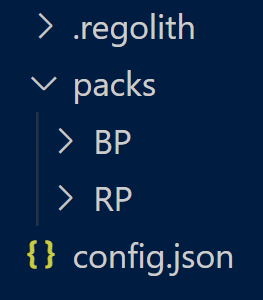
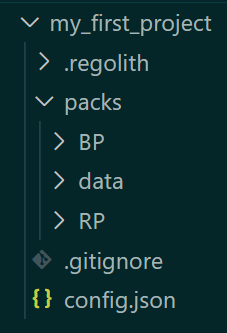
docs: Update beginners content + images

diff --git a/docs/_pages/docs/getting_started/getting-started.md b/docs/_pages/docs/getting_started/getting-started.md
@@ -13,6 +13,11 @@ You can test for installation by running `regolith` inside of a terminal. This g
 
 If you run into issues installing, you can check our [troubleshooting guide](/regolith/docs/troubleshooting) for tips.
 
+{: .notice--warning}
+**Warning:** Regolith is a command line application. It assumes some familiarity with how to navigate and use the command line. You can get a [refresher](https://tutorial.djangogirls.org/en/intro_to_command_line/) here.
+
+
+
 ## Creating a new Project
 
 To create a new project, navigate to a blank folder, and run `regolith init`. This will create a few files:
@@ -20,7 +25,12 @@ To create a new project, navigate to a blank folder, and run `regolith init`. Th
 
 ![](/regolith/assets/images/introduction/project_folder.png)
 
-You may now create your addon inside of the RP and BP folders, or better yet, import them from an addon you are currently working on.
+In short:
+ - `.regolith` is a special folder that regolith uses to store data. You don't need to look here.
+ - `packs/BP` stores your behavior pack.
+ - `packs/RP` stores your resource pack.
+ - `packs/data` is a special folder that filters can use to store data.
+ - `config.json` is the configuration file for Regolith.
 
 ## config.json
 
@@ -28,9 +38,8 @@ Next, open up `config.json`. We will be configuring a few fields here, for your 
 
 ```json
 {
-  "name": "Project Name", // Put your project name here
-  "author": "Your name", // Put your name here
-
+  "name": "Project name", // Enter your pack name here. (Example: spooky_gravestones)
+  "author": "Your name",  // Enter your author name here. (example: SirLich)
   "packs": {
     "behaviorPack": "./packs/BP",
     "resourcePack": "./packs/RP"
@@ -38,58 +47,81 @@ Next, open up `config.json`. We will be configuring a few fields here, for your 
   "regolith": {
     "profiles": {
       "dev": {
-        "filters": [
-          
-        ],
+        "filters": [],
         "export": {
-          "clean": false,
-          "target": "development"
+          "target": "development",
+          "readOnly": false
         }
       }
-    }
+    },
+    "filterDefinitions": {},
+    "dataPath": "./packs/data"
   }
 }
 ```
 
 Later on you can play with the additional configuration options, but for now, just set a project name, and author name.
 
-We suggest using a name like 'dragons' or 'cars' for the project name, as opposed to 'My Dragon Adventure Map', since the project name will be used as the folder name for the final export.
+{: .notice}
+We suggest using a name like `dragons` or `cars` for the project name, as opposed to `My Dragon Adventure Map`, since the project name will be used as the folder name for the final export.
+
+## Creating your Addon
+
+At this point, you will want to add some files into your regolith project. If you have an existing project, you can copy/paste the files into the `RP` (resource pack) and `BP` (behavior pack) folders. 
+
+If you don't have an addon prepared, you may also create a fresh one directly in your project folder, following the normal rules. Add a `manifest.json`, a `pack_icon.png`, and any other files you want. The files should go directly into the `RP` and `BP` folders, like this:
+
+![](/regolith/assets/images/introduction/project_folder2.png)
+
 
 ## Running Regolith
 
-To run regolith, open up a terminal and type `regolith run`. This will run the default profile (dev) from `config.json`. When you run this command, Regolith will copy/paste your addon into the `development` folders inside of `com.mojang`. If you navigate there, you should be able to see your pack folders, with a name like `project_name_bp`. 
+To run regolith, open up a terminal and type `regolith run`. This will run the default profile (dev) from `config.json`. When you run this command, Regolith will copy/paste your addon into the `development` folders inside of `com.mojang`. If you navigate there, you should be able to see your pack folders, with a name like `project_name_bp`, and `project_name_rp`.
 
-Every time you want to update your addon, re-run this command. 
+{: .notice--warning}
+Every time you want to update your addon, re-run this command.
 
-Later on, you can experiment with creating multiple profiles -for example, one for `dev` and one for `packaging`.
+Later on, you can experiment with creating multiple [profiles](/regolith/docs/documentation/profiles) -for example, one for `dev` and one for `packaging`.
 
 ## Adding your first Filter
 
-Regolith contains a very powerful filter system, that allows you write filters in many languages, as well as from the internet. For now, we will simply use the `standard library`, which is a set of approved filters that we maintain. 
-
-To add a new filter to your profile, you must add items into the `"filters": [],` list of your profile.
+Regolith contains a very powerful filter system, that allows you write filters in many languages, as well as running existing filters from the internet. For now, we will simply use the [standard library](/regolith/docs/content/standard-filters), which is a set of approved filters that we maintain. 
 
 As an example, we will use the `texture_list` filter, which automatically creates the `texture_list.json` file for you. To learn more about this file, and why automating it is helpful, read [here](https://wiki.bedrock.dev/visuals/textures-list.html).
 
+### Installing
+
+You can install this filter by running `regolith install texture_list`, which will make the filter available for use. 
+
+The last step is selecting where/when the filter will run. In our case, we want to run the filter every time we export using the default `dev` profile.
+
+You should adjust the dev profile in `config.json` to look like this:
+
 ```json
-"filters": [
-  {
-    "filter": "texture_list"
-  }
-]
+"dev": {
+  "export": {
+    "readOnly": false,
+    "target": "development"
+  },
+  "filters": [
+    {
+      "filter": "texture_list",
+    }
+  ]
+}
 ```
 
-`Warning:` If your resource pack already contains `texture_list.json`, you should delete it. You don't need to manually worry about it anymore -Regolith will handle it!
+### Running
 
-:`Warning:` If your project doesn't have any textures, than `texture_list.json` will simply create a blank file `[]`. Consider adding some textures to see the filter at work!
-
-Run `regolith run`. You will crash, since the dependencies for `texture_list` were not installed yet. This is expected!
-
-Run `regolith install`. This may take some time, but you only need to run it when you add new filters.
-
-After installation is finished, you can run `regolith run` again.
+Now, you can re-run `regolith run`.
 
 Check `com.mojang`, and open the new `texture_list.json` file in `RP/textures/texture_list.json`. Every time you run regolith, this file will be re-created, based on your current textures. No need to manually edit it ever again!
+
+{: .notice--warning}
+`Warning:` If your resource pack already contains `texture_list.json`, you should delete it. You don't need to manually worry about it anymore -Regolith will handle it!
+
+{: .notice--warning}
+`Warning:` If your project doesn't have any textures, than `texture_list.json` will simply create a blank file `[]`. Consider adding some textures to see the filter at work!
 
 ## Whats Next
 

diff --git a/docs/_pages/docs/getting_started/introduction.md b/docs/_pages/docs/getting_started/introduction.md
@@ -22,7 +22,7 @@ Here is what a newly initialized Regolith project looks like:
 
 In the simplest case, Regolith can be used to move your packs from the project folder, into your target location (usually the development folders in `com.mojang`). Each time you run regolith, the packs will be moved over, and updated.
 
-However, Regoliths real value preposition is the ability to run *arbitrary code during this copy*. 
+However, Regoliths real value preposition is the ability to run *arbitrary code during this copy*.
 
 We refer to these scripts and programs as `filters`. Here is the flow:
 - `RP`, `BP` and `data` folder are copied into a `temp` folder
@@ -32,25 +32,36 @@ We refer to these scripts and programs as `filters`. Here is the flow:
 
 This compilation flow allows you to make programmatic changes to your compiled addon, without effecting your source files.  
 
-Since the data folder is saved back to our project, we can store persistent data here. 
+Since the data folder is saved back to your project, you can store persistent data there. 
 
 ## Filters
 
-A filter is any program or script that takes the files inside of your RP and BP and *transforms* them in some way. Many of these filters have already been written, and are included as part of the *standard library*. 
+A filter is any program or script that takes the files inside of your RP and BP and *transforms* them in some way. Many of these filters have already been written, and are included as part of the [standard library](regolith/docs/standard-filters). 
 
-For example, one of our standard filters is called `psd_convert`, which *filters* photoshop files in your addon, and turns them into `.png` files.
+For example, one of our standard filters is called `texture_convert`, which *filters* image formats for photo editing programs, and converts them into `.png` files.
 
-With this filter turned on, you can place `.psd` files directly into `RP/textures/*` folder! By the time your files reach `com.mojang`, the photoshop files will be replaced by a normal images -Minecraft won't know the difference!
+With this filter turned on, you can place Photoshop, Krita, or Gimp files directly into `RP/textures/*` folder! By the time your files reach `com.mojang`, the `.psd` files will be replaced by a normal `.png` -Minecraft won't know the difference!
 
-You can write filters in Python, Javescript, Java, or any other language, using our shell integration, or select from the list of pre-written standard and community filters.
+### Creating your own Filters
 
-## Regolith Use Cases
+You can write filters in Python, Javescript, Java, or any other language, using our shell integration. You can learn more about [creating custom filters here](/regolith/docs/custom-filters).
+
+## Why Regolith?
 
 ### Extending the Addon Syntax
 
-Regolith allows you to create and extend the addon-syntax arbitrarily. As long as you can write a filter to interpret the new syntax, and compile it into valid addon-syntax, then anything goes! 
+Regolith allows you to create and extend addon-syntax. As long as you can write a filter to interpret the new syntax, and compile it into valid addon-syntax, then anything goes! 
 
-For example, we allow the creation of `.molang` files -a file format that doesn't exist in Bedrock! Regolith is responsible for converting these files into a format Minecraft understands. 
+For example, the [subfunctions](https://github.com/Nusiq/regolith-filters/tree/master/subfunctions) community filter allows you to define functions within functions, without creating an additional file:
+
+```s
+# Some code
+function <aaa>:
+    # The code of the subfunction
+    execute @a ~ ~ ~ function <bbb>:
+        # The code of the nested subfunction
+# Some other code
+```
 
 With Regolith, you are empowered to write addons with an extended syntax -and Bedrock won't even know the difference!
 
@@ -60,18 +71,19 @@ Imagine you have a script that loops over every entity, and creates some languag
 
 Lets say your entity `regolith:big_zombie` becomes named `Big Zombie`.
 
-If we run this script, and copy the files into our `en_US.lang`, we've saved ourself a lot of time, but we've also introduced a problem: We've *destructively edited our addon*. What this means, is we've mixed up our tool-generated content, with out hand-written content. 
+If you run this script, and copy the files into your `en_US.lang`, you've saved yourself a lot of time, but you've also introduced a problem: You've *destructively edited your addon*. What this means, is that you have mixed up your tool-generated content, with your hand-written content. 
 
-Imagine we add more entities, and run our script again: Now we are in the painful position of "merging" the new, tool generated content, with our addons `en_US.lang`, which contains the old entity names alongside custom language codes. 
+Imagine you add more entities, and run your script again: Now you are in the painful position of "merging" the new tool generated content, with your addons `en_US.lang` file, which you may have edited in the interim.
 
 This is called *destructive editing*, and Regolith fixes it!
 
-A comparable Regolith filter would only edit your `en_US.lang` during compilation, and it would do it automatically, everysingle time. 
+A comparable Regolith filter would not suffer from this problem, because you never directly edit tool generated content. Your Regolith project folder contains only human written content, and your `com.mojang` folder contains only tool-generated content.
 
-This means as you add new entities, the names will be handled for you, without you ever seeing the names in `en_US.lang`, or needing to re-run the script. 
+This means as you add new entities, the names will be handled for you, without you ever seeing the names in `en_US.lang`, or needing to re-run the script!
 
-In other words, Regolith layers compiled content on top of your hand written content, leaving you free to create your content, without working around tool-generated content.
+In other words, Regolith adds compiled content on top of your hand written content, leaving you free to create your content, without working around tool-generated content.
 
+*If this sounds interesting to you, you might be interested in the [name ninja filter](https://github.com/Bedrock-OSS/regolith-filters/tree/master/name_ninja).*
 
 
 

diff --git a/docs/_pages/docs/getting_started/installing.md b/docs/_pages/docs/getting_started/installing.md
@@ -9,9 +9,13 @@ sidebar:
 
 Regolith can be installed, or downloaded as a standalone application. Both links can be found by going to the [GitHub Releases](https://github.com/Bedrock-OSS/regolith/releases).
 
-## Downloading Directly (recommended)
+## Install (recommended)
 
-To download directly, install the `regolith-x.x.x.msi` file. You may need to select "trust" to run the installer. The installation window will look like this:
+First, download the `regolith-x.x.x.msi` file from the [releases](https://github.com/Bedrock-OSS/regolith/releases/latest) page.
+
+![](/regolith/assets/images/installing/msi_download.png)
+
+You may need to select "trust" to run the installer. The installation window will look like this:
 
 
 ![](/regolith/assets/images/installing/regolith_msi.png)
@@ -22,11 +26,13 @@ After installing, Regolith can be used in any command-prompt by typing `regolith
 ![](/regolith/assets/images/installing/regolith_help.png)
 
 
-## Stand-Alone
+## Stand-Alone (not recommended)
 
 Regolith can also be installed stand-alone. Simply install the correct zip for your operating system. For windows, this is most likely `regolith_x.x.x_Windows_x86_64.zip`.
 
-You may unzip this package, and place the `Regolith.exe` folder somewhere convenient. In stand-alone mode, you will need a copy of the regolith executable in every project that you intend to use Regolith with.
+![](/regolith/assets/images/installing/exe_download.png)
 
-After installing, you can run by typing `Regolith.exe`, as long as you are in the same folder as the executable. If you want to run from anywhere, consider installing. 
+You may unzip this package, and place the `Regolith.exe` file somewhere convenient. In stand-alone mode, you will need a copy of the regolith executable in every project that you intend to use Regolith with.
+
+After download, you can run by typing `Regolith.exe`, as long as you are in the same folder as the executable. If you want to run from anywhere, consider installing.
 
